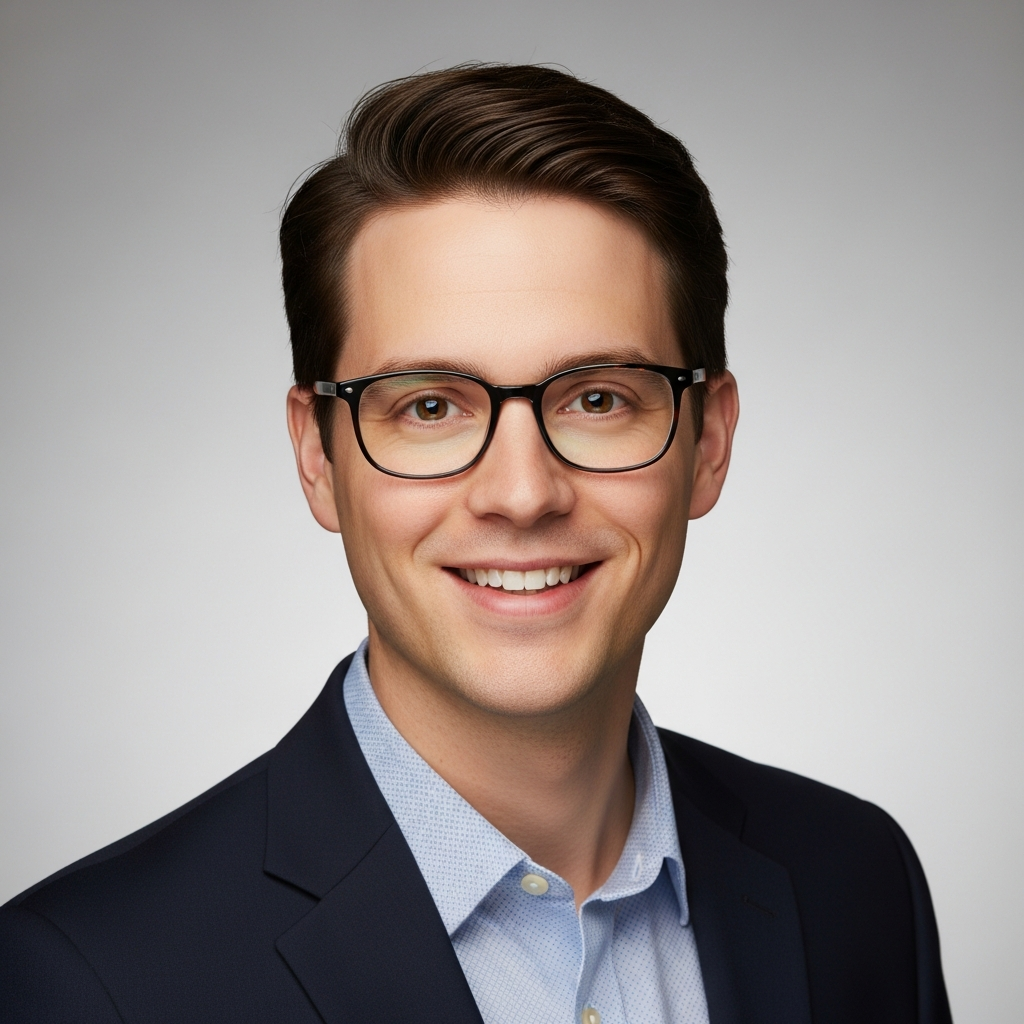
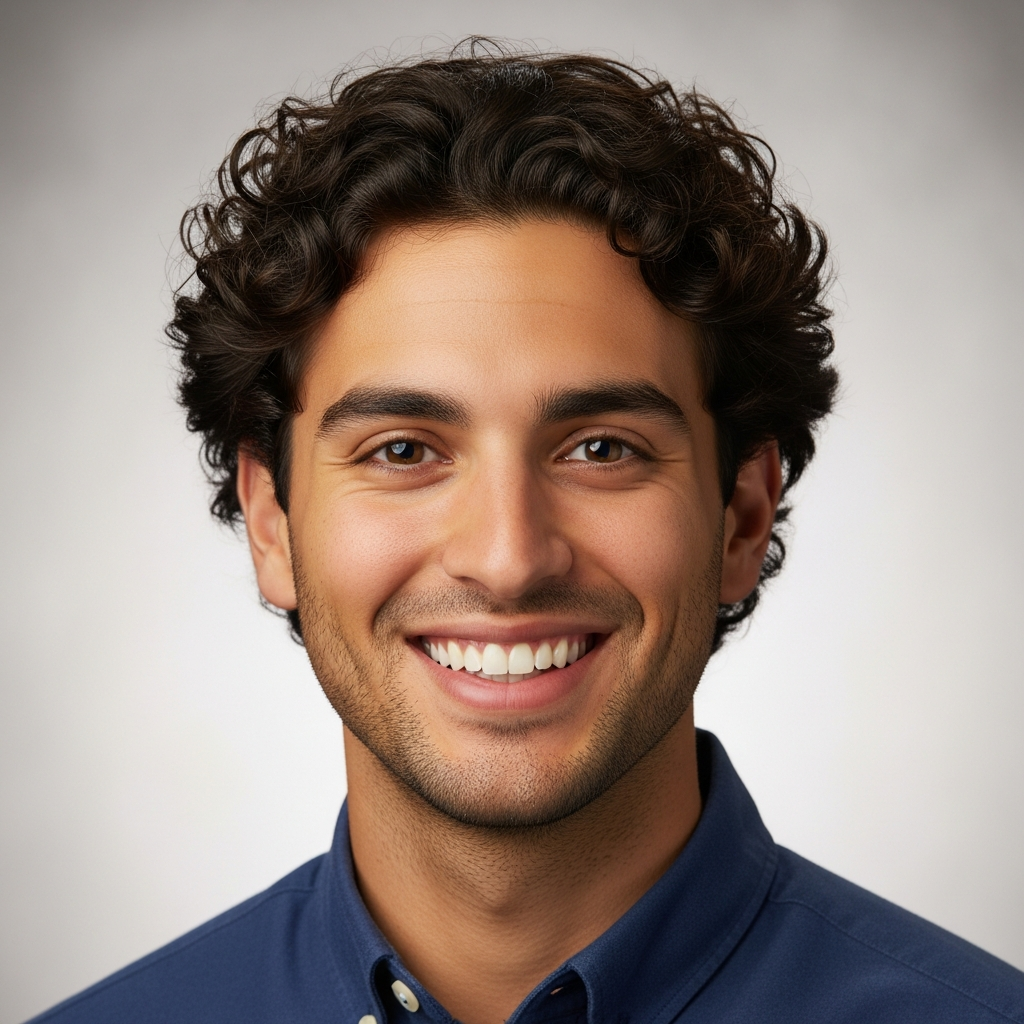
Update headshot prompt to match user appearance, regenerate image
https://claude.ai/code/session_01738QeuVFBnpQsf7RpYbVio

diff --git a/generate_linkedin_headshot.py b/generate_linkedin_headshot.py
@@ -4,10 +4,13 @@ from google.genai import types
 client = genai.Client(api_key="AIzaSyDtwdtgct2kI0t0gLW-ChBkcHU6_x0IRtc")
 
 prompt = """
-Professional LinkedIn headshot of a person,
-business casual attire, neutral background,
-soft studio lighting, friendly smile,
-sharp focus, high quality portrait photography
+Professional LinkedIn headshot of a young man in his mid-20s,
+curly dark brown medium-length hair, tan skin, clean shaven,
+big warm friendly smile showing white teeth, bright eyes,
+wearing a navy blue button-down shirt,
+soft neutral light gray studio background,
+soft professional studio lighting, sharp focus,
+high quality portrait photography, photorealistic
 """
 
 result = client.models.generate_images(
